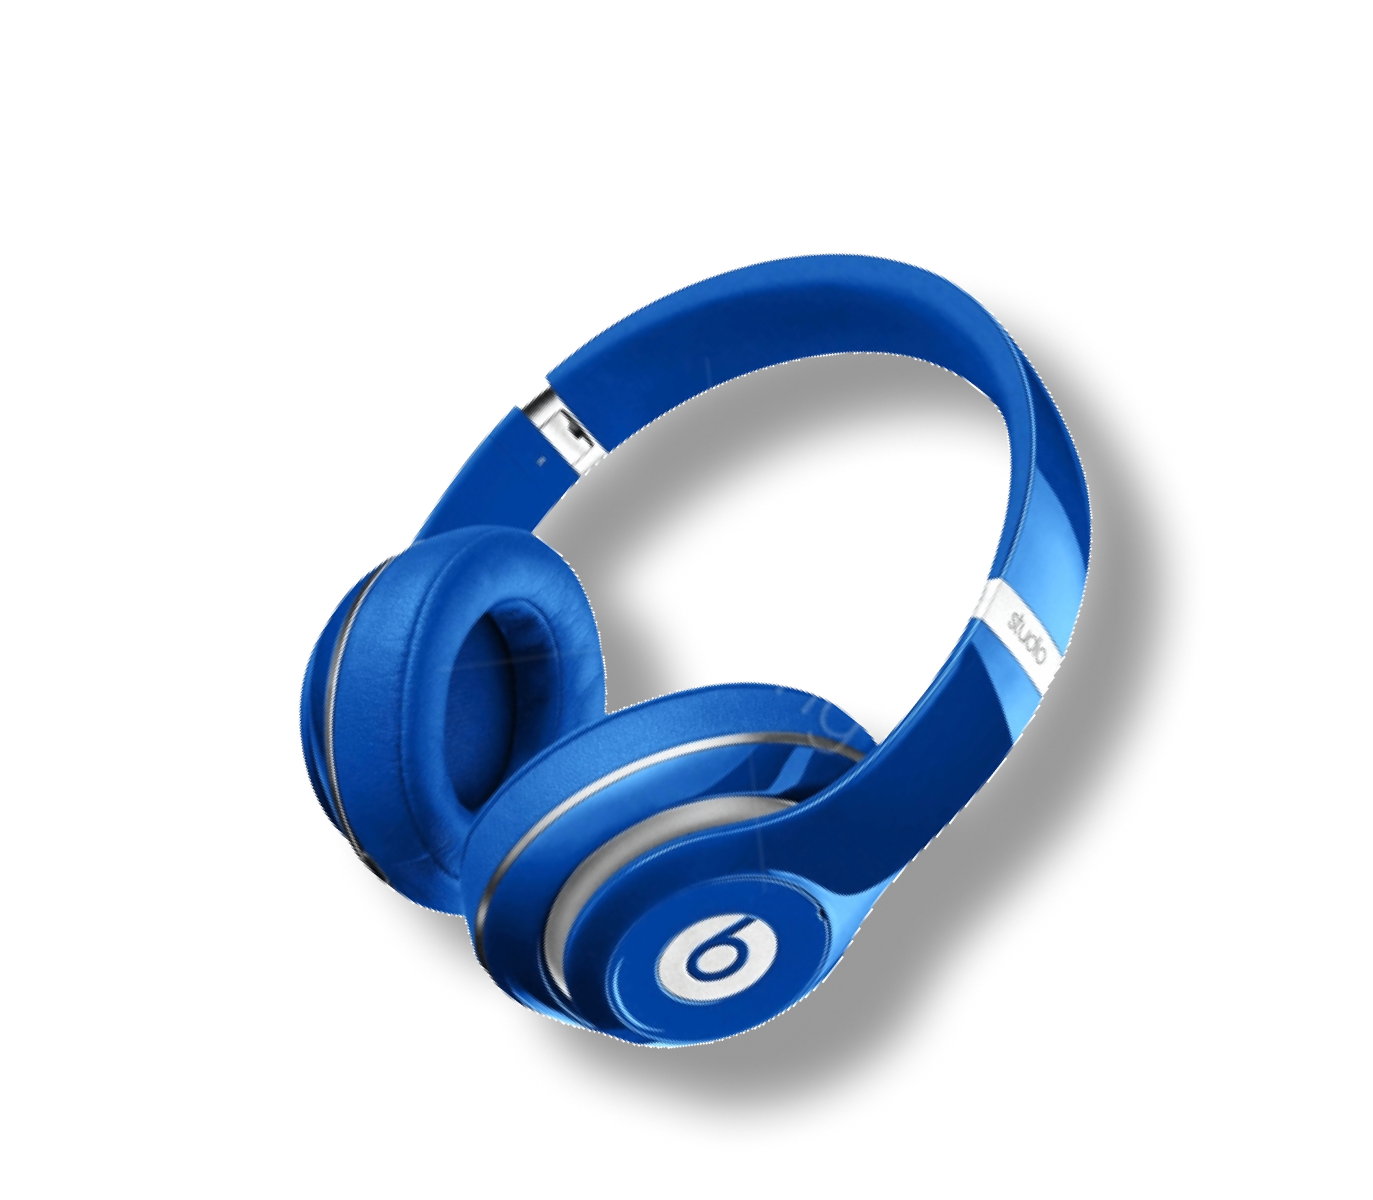
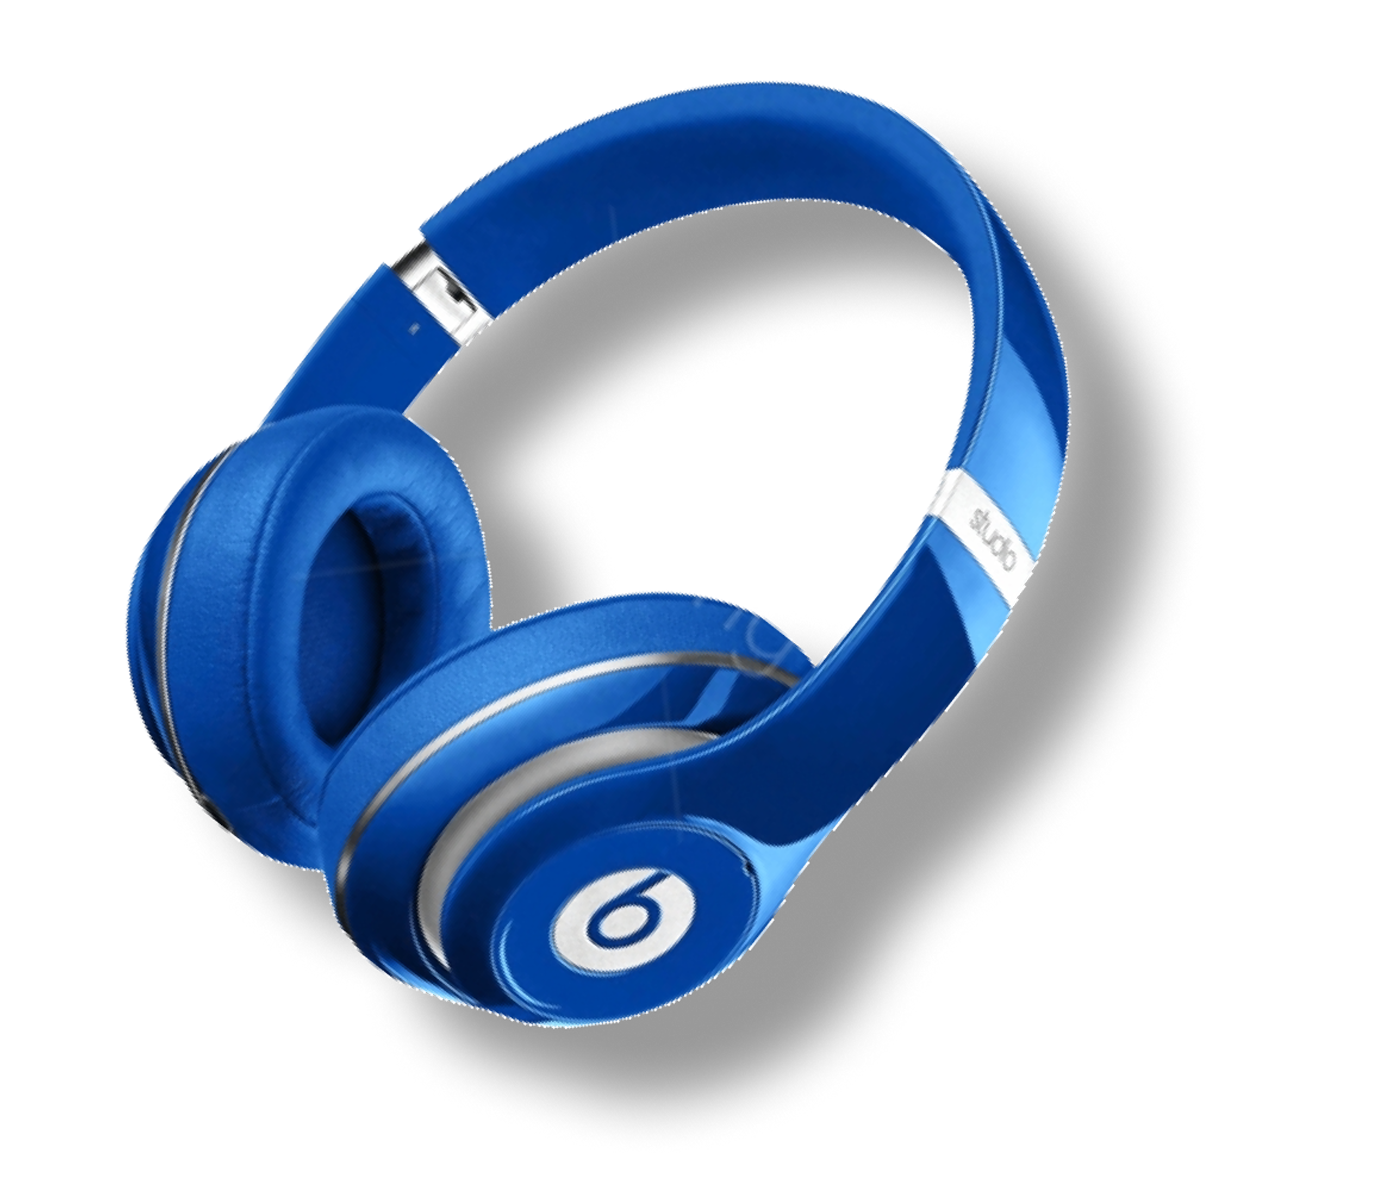
first commit fore today

diff --git a/src/Components/Home/Home.jsx b/src/Components/Home/Home.jsx
@@ -3,13 +3,14 @@ import './Home.css';
 import Instagram from '../../Assets/Instagram.png';
 import Twitter from '../../Assets/Twitter.png';
 import Facebook from '../../Assets/Facebook.png';
+import Headphone from '../../Assets/Headphone.png'
 
 const Home = () => {
     return (
         <div>
             <div className="container backg">
                 <div className="row">
-                    <div className="col-md-12">
+                    <div className="col-md-5">
                         <div className="titles">
                             <h1 className="htxt">GET LOST</h1>
                             <h3 className="sbtxt">IN THE <k>MUSIC</k></h3>
@@ -17,6 +18,9 @@ const Home = () => {
                             <p className="txtextra">More Music, Less Noise <br /> Experience Premium Sound <br />Available in Different Colours</p>
                             <h2 className="price">$349.94</h2>
                         </div>
+                    </div>
+                    <div className="col-md-7">
+                        <img className="hphone" src={Headphone} />
                     </div>
                 </div>
                 <div className="row mt-4 scolom">

diff --git a/src/Components/Home/Home.css b/src/Components/Home/Home.css
@@ -83,3 +83,10 @@ k {
     background-image: linear-gradient(90deg, #14a4f5, #14a4f5, #14a4f5, #14a4f5, #14a4f5, #14a4f5, #14a4f5, #14a4f5, #14a4f5,#14a4f5,#14a4f5,#14a4f5,#14a4f5,#14a4f5 ,#14a4f5,#14a4f5,#14a4f5, #0b5d8b, #0b5d8b,#0b5d8b,#0b5d8b,#0b5d8b,#0b5d8b,#0b5d8b,#0b5d8b,#0b5d8b)
 
 }
+
+.hphone {
+    width: 55em;
+    position: absolute;
+    right: 15em;
+    bottom: -3em;
+}
